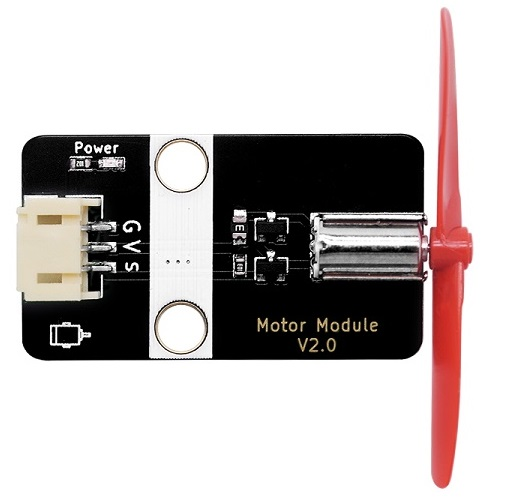
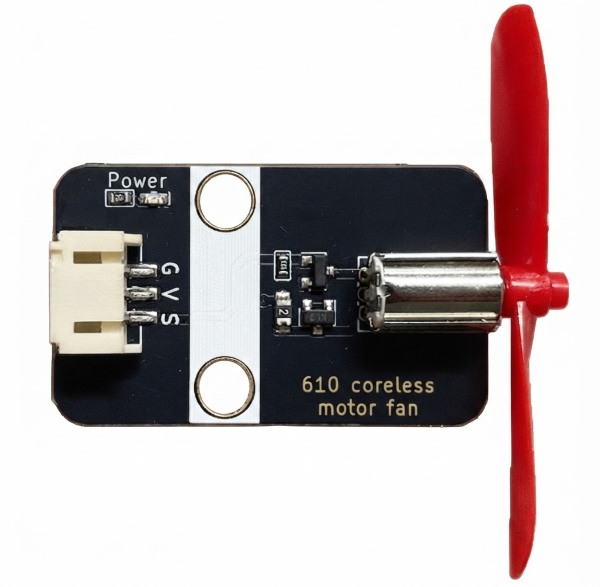
优化MPPT、mini-joystick、small_atomizer、R300C模块

diff --git a/docs/zh-cn/ph2.0_sensors/actuators/small_atomizer/small_atomizer_zh-cn.md b/docs/zh-cn/ph2.0_sensors/actuators/small_atomizer/small_atomizer_zh-cn.md
@@ -1,0 +1,46 @@
+# 5V小型雾化器模块
+
+![](./picture/small_atomizer.jpg)
+
+## 概述
+
+Atomizer模块是一款超声波雾化器模块，其利用高频振动将液体分解成细小颗粒。板载两颗高亮LED，红色LED用以指示LED供电是否正常，蓝色LED则指示雾化模块是否在工作。<br />
+Atomizer模块可通过单片机I/O口控制，低电平触发雾化器工作蓝色LED灯亮起，低电平关闭雾化器。也可通过板上自带的拨码开关直接控制，即便在没有单片机的情况下也能轻松使用雾化器模块，使用非常便利。除此之外，雾化器适应频率范围为100KHz~160KHz（中心频率108KHz或 150KHz）微孔雾化片，其内部集成微孔雾化片频率适应电路，可以检测微孔雾化片需要频率进行驱动，自适应频率快。<br />
+此小模块可以非常方便应用在创客小作品，PBL项目甚至医疗、美容、工业和家庭等多个领域等。
+
+### 原理图
+
+![small_atomizer_sch](./picture/small_atomizer_sch.jpg)
+
+<a href="zh-cn/ph2.0_sensors/actuators/small_atomizer/small_atomizer_sch.pdf" target="_blank">点击下载原理图</a>
+
+### 芯片规格书
+
+<a href="zh-cn/ph2.0_sensors/actuators/small_atomizer/HK9001_datasheet.pdf" target="_blank">点击下载HK9001规格书</a>
+
+## 模块参数
+
+- 工作电压：3 ~ 5V
+- 工作电流：120mA
+- 震动频率频率：108KHZ
+- 接 口：3pin-PH2.0接口的是供电及控制接口，2pin为雾化片接口及电池供电接口。
+- 工作稳定温度范围：0℃ ~ +70℃
+- 通信方式:  I/O口直接控制，高电平触发
+- 尺 寸：22.4*38.4mm，兼容乐高积木和M4螺丝固定孔
+
+## 引脚定义
+
+| 引脚名称 | 描述        |
+| -------- | :---------- |
+| G        | GND     |
+| V        | 3 ~ 5V |
+| S      | 雾化启动控制，**低电平有效** |
+| WH     | 雾化片接口 |
+| + | 电池供电正极（3~5V） |
+| - | 电池供电负极 |
+
+### 机械尺寸
+
+![small_atomizer_assembly](./picture/small_atomizer_assembly.jpg)
+
+<a href="zh-cn/ph2.0_sensors/actuators/small_atomizer/small_atomizer_3d.zip" download>下载小型雾化器模块平面和3D文件</a>

diff --git a/docs/zh-cn/power_module/MPPT/MPPT_zh-cn.md b/docs/zh-cn/power_module/MPPT/MPPT_zh-cn.md
@@ -1,0 +1,42 @@
+# MPPT太阳能充电模块
+
+![MPPT](./picture/MPPT.jpg)
+
+## 概述
+
+MPPT模块是一款可通过太阳能发电板及USB接口给锂电池充电的模块。当太阳光照射到电池板上时，光子与半导体材料相互作用，产生电子-空穴对，从而形成电流，电流通过板上集成的管理芯片给电池充电，也可以通过PH2.0接口外接出去给其他系统使用。板载两颗高亮LED，绿色LED用以指示正在充电，蓝色LED则指示电池电量已经充满。<br />
+MPPT模块无需外部控制，即插即用。使用非常便利。除此之外，MPPT模块集成电池管理芯片，防止电池过充或过放，能有效保护电池，延长电池使用寿命，拥有PH2.0防反插接口。<br />
+此设备可以应用于户外活动、旅行、小型电子设备供电、和家庭等多个领域等。
+
+### 原理图
+
+![MPPT_sch](./picture/MPPT_sch.jpg)
+
+### 芯片规格书
+
+<a href="zh-cn/ph2.0_sensors/smart_module/MPPT/CN3165_datesheet.pdf" target="_blank">点击下载太阳能充电芯片CN3165原理图</a>
+
+## 模块参数
+
+- 太阳能板充电输入电压：4.5-6V
+- 工作电流：180mA
+- 最大功率：1.5W
+- 接 口：PH2.0间距接口、USB接口，2pin-PH2.0为太阳能充电板接口及充电输出接口。
+- 工作稳定温度范围：-20℃ ~ +70℃
+- 尺 寸：22.4*38.4mm
+- 安装方式：M4螺钉螺母固定
+
+## 接口定义
+
+| 接口名称 | 描述        |
+| -------- | :---------- |
+| USB IN | USB充电输入接口 |
+| SOLAR IN | 太阳能板充电板输入接口 |
+| BAT IN | 3.7V锂电池接口 |
+| OUTPUT | 对外供电输出接口（范围3.7~4.2V）  |
+
+## 机械尺寸
+
+![MPPT_size_mark](./picture/MPPT_assembly.png)
+
+<a href="zh-cn/ph2.0_sensors/power_module/MPPT/MPPT_3d.zip" download>下载MPPT太阳能充电模块平面和3D文件</a>

diff --git a/docs/zh-cn/ph2.0_sensors/base_input_module/mini-joystick/mini-joystick_zh-cn.md b/docs/zh-cn/ph2.0_sensors/base_input_module/mini-joystick/mini-joystick_zh-cn.md
@@ -14,17 +14,42 @@ mini-joystick手柄包含一个操纵杆（X轴和Y轴）和五个按键（A、B
 
 ## 模块参数
 
-
 | 引脚名称 | 描述           |
 |:------- | :------------- |
 | G       | GND            |
-| V       | 3~5V         |
+| V       | 3~5V           |
 | SCL     | I2C通信时钟引脚 |
 | SDA     | I2C通信数据引脚 |
 
 - 供电电压：3~5V；
 - 通信方式：IIC，默认地址0x5A；
 - 连接方式：PH2.0-4PIN防反接线；
+
+### 寄存器地址介绍
+
+| 寄存器地址       | 功能描述                                      | 值范围 |
+| ---------------- | --------------------------------------------- | ------ |
+| 0x5A（十进制90） | 默认I2C从机地址，背面可以通过焊接电阻修改地址 |        |
+| 0x10             | 左摇杆X轴模拟值 JOYSTICK_LEFT_X               | 0~255  |
+| 0x11             | 左摇杆Y轴模拟值 JOYSTICK_LEFT_X               | 0~255  |
+| 0x20             | 摇杆中间确认按键BUTTON_OK                     | 0~8    |
+| 0x21             | C按键                                         | 0~8    |
+| 0x22             | A按键                                         | 0~8    |
+| 0x23             | B按键                                         | 0~8    |
+| 0x24             | D按键                                         | 0~8    |
+
+### 按键状态说明
+
+| 按键状态值 | 描述                              |
+| ---------- | --------------------------------- |
+| 0          | PRESS_DOWN按下                    |
+| 1          | PRESS_UP按键抬起                  |
+| 2          | PRESS_REPEAT重复按键              |
+| 3          | SINGLE_CLICK单击                  |
+| 4          | DOUBLE_CLICK双击（间隔500ms以内） |
+| 5          | LONG_PRESS_START长按开始          |
+| 6          | LONG_PRESS_HOLD长按按住           |
+| 8          | NONE_PRESS无操作                  |
 
 ## 机械尺寸图
 

diff --git a/docs/zh-cn/ph2.0_sensors/actuators/servo_adapter/servo_adapter_zh-cn.md b/docs/zh-cn/ph2.0_sensors/actuators/servo_adapter/servo_adapter_zh-cn.md
@@ -1,0 +1,18 @@
+# 舵机扩展
+
+![servo_adapte](./picture/servo_adapter.jpg)
+
+舵机扩展板，功能是将一个4P-PH2.0接口转接成2个2.54mm间距杜邦线舵机接口的，舵机板子上自带2个500mA的保险丝，可以防止舵机堵转，卡死。
+
+## 模块参数
+
+* 供电电压：和舵机工作电压匹配
+* 连接方式：4Pin-PH2.0防反接
+* 模块尺寸：38.4*22.4mm
+* 安装方式：M4螺钉兼容乐高插孔
+
+## 机械尺寸
+
+![servo_adapter_size_mark](./picture/servo_adapter_assembly.png)
+
+<a href="zh-cn/ph2.0_sensors/actuators/servo_adapter/servo_adapter_3d.zip" target="_blank">点击下载2D和3D文件</a>

diff --git a/docs/zh-cn/ph2.0_sensors/smart_module/speech_recognizer/speech_recognizer.md b/docs/zh-cn/ph2.0_sensors/smart_module/speech_recognizer/speech_recognizer.md
@@ -1,8 +1,6 @@
 # 语音识别模块2.1
 
-## 实物图
-
-![实物图](picture/ld3320.jpg)
+![ld3320](picture/ld3320.jpg)
 
 ## 概述
 
@@ -26,7 +24,7 @@
 
 - 工作电压：5V
 - 连接方式：4 PIN 防反接杜邦线
-- 模块尺寸：4 * 2.1cm
+- 模块尺寸：22.4*38.4mm
 - 安装方式：M4螺钉螺母固定
 - I2C地址：0x30
 
@@ -41,7 +39,9 @@
 
 ## 模块尺寸
 
-TODO
+![ld3320_assembly](./picture/ld3320_assembly.jpg)
+
+<a href="zh-cn/ph2.0_sensors/smart_module/asr_speech_recognition/speech_recognition_3d.zip" download>下载语音识别模块平面和3D文件</a>
 
 ## 软件特性
 

diff --git a/docs/_sidebar.md b/docs/_sidebar.md
@@ -82,18 +82,18 @@
     - [无源蜂鸣器模块](/zh-cn/ph2.0_sensors/actuators/passive_buzzer/passive_buzzer_zh-cn.md)
     - [SA8302步进电机模块](/zh-cn/ph2.0_sensors/actuators/SA8302/SA8302.md)
     - [空心杯610电机风扇](/zh-cn/ph2.0_sensors/actuators/610_coreless_motor_fan/610_coreless_motor_fan_zh-cn.md)
-    - [R300C电机风扇](/zh-cn/ph2.0_sensors/actuators/r300c/r300c_zh-cn.md)
+    - [R300C电机风扇](/zh-cn/ph2.0_sensors/actuators/R300C/R300C_zh-cn.md)
     - [继电器模块](/zh-cn/ph2.0_sensors/actuators/relay_module/relay_model_zh-cn.md)
     - [红外发射模块](/zh-cn/ph2.0_sensors/actuators/infrared_emitter/infrared_emitter_zh-cn.md)
     - [激光发射模块](/zh-cn/ph2.0_sensors/actuators/laser_emitter/laser_emitter_zh-cn.md)
     - [振动马达](zh-cn/ph2.0_sensors/actuators/vibrationMotorModule/vibrationMotorModule.md)
     - [8002A音频放大器](zh-cn/ph2.0_sensors/actuators/8002a_amp_speaker/8002a_amp_speaker.md)
-    - [舵机扩展](/zh-cn/ph2.0_sensors/actuators/servoModel.md)
+    - [舵机扩展](/zh-cn/ph2.0_sensors/actuators/servo_adapter_zh-cn.md)
     - [MD01单路电机驱动](zh-cn/ph2.0_sensors/actuators/md01/md01_zh-cn.md)
     - [MD02双路电机驱动](zh-cn/ph2.0_sensors/actuators/md02/md02_zh-cn.md)
     - [DM11两路电机驱动模块](/zh-cn/ph2.0_sensors/actuators/dm11/dm11.md)
     - [MD40四路编码驱动模块](zh-cn/ph2.0_sensors/actuators/md40/md40.md)
-    - [小型雾化器](/zh-cn/ph2.0_sensors/actuators/small_atomizer/small_atomizer.md)
+    - [小型雾化器](/zh-cn/ph2.0_sensors/actuators/small_atomizer/small_atomizer_zh-cn.md)
     - [MOS管驱动模块](/zh-cn/ph2.0_sensors/actuators/mos_driver_module/mos_driver_module_zh-cn.md)
   
   - 显示器
@@ -131,7 +131,6 @@
     - [离线特定语音识别ASR-V2](zh-cn/ph2.0_sensors/smart_module/asr_speech_recognition/asr_speech_recognition.md)
     - [TTS20 语音合成模块](zh-cn/ph2.0_sensors/smart_module/tts20_module/tts20_module.md)
     - [TTS语音合成V2.1](zh-cn/ph2.0_sensors/smart_module/tts_module/text_to_speech_synthesizer.md)
-    - [TTS语音合成V3.0](/zh-cn/gallery.md)
     - [MIDI数字音乐模块](zh-cn/ph2.0_sensors/smart_module/midi/midi.md)
     - [I2C-IO扩展模块](zh-cn/ph2.0_sensors/smart_module/gpio_expansion_board/gpio_expansion_board.md)
     - [I2C级联扩展器](/zh-cn/ph2.0_sensors/smart_module/i2c_cascade_extender/i2c_cascade_extender.md)
@@ -147,7 +146,7 @@
   
   - [5V5A电源模块(PM01)](/zh-cn/power_module/PM01/PM01.md)
   - [升降压5V电源(PM02)](/zh-cn/power_module/PM02/PM02.md)
-  - [MPPT太阳能充电板](/zh-cn/power_module/MPPT/MPPT.md)
+  - [MPPT太阳能充电板](/zh-cn/power_module/MPPT/MPPT_zh-cn.md)
   - [3.7V升压充电模块(PM1S-16340)](/zh-cn/power_module/PM1S-16340/PM1S-16340.md)
   - [3.7V锂电池包模块(PM11)](/zh-cn/power_module/PM11/PM11.md)
   - [7.4V充电电池模块(PM2S-16340)](/zh-cn/power_module/PM2S-16340/PM2S-16340.md)

diff --git a/docs/zh-cn/software/arduino_ide/arduino_ide.zh-CN.md b/docs/zh-cn/software/arduino_ide/arduino_ide.zh-CN.md
@@ -4,11 +4,13 @@
 
 ### IDE 介绍
 
-Arduino IDE（Integrated Development Environment，集成开发环境）是专为Arduin 硬件开发设计的软件工具，它简化了编程过程，使得初学者和专业人士都能轻松开发微控制器应用。Arduino IDE 提供了一个易于使用的界面，允许用户使用基于 C/C++ 的简化语言编写、编辑、编译和上传代码到 Arduino微控制器板。建议在Windows 10且内存8G及以上配置的电脑上使用。
+Arduino IDE（Integrated Development Environment，集成开发环境）是专为Arduin 硬件开发设计的软件工具，它简化了编程过程，使得初学者和专业人士都能轻松开发微控制器应用。Arduino IDE 提供了一个易于使用的界面，允许用户使用基于 C/C++ 的简化语言编写、编辑、编译和上传代码到 Arduino微控制器板。建议在**Windows 10且内存8G及以上配置的电脑上**使用。
 
 ### Arduino IDE 2.0 和 1.0 的主要区别
 
-相比于 2021 年之前发布的 Arduino IDE 1.x 版本，官方于 2022 年正式推出的 Arduino IDE 2.0 版本在重构后引入了多项核心改进，提升了开发效率与体验。
+相比于2021年之前发布的 Arduino IDE 1.x 版本，官方于 2022 年正式推出的 Arduino IDE 2.0 版本在重构后引入了多项核心改进，提升了开发效率与体验。
+
+-   **系统支持**：ArduinoIDE2.0只支持win10及以上系统，win7或者xp系统请下载1.x版本。
 
 - **集成串口监视器与绘图仪**：允许同时打开 Serial Monitor（串口监视器）与全新的 Serial Plotter（串口绘图仪），可实时查看和绘制串口数据。
 

diff --git a/docs/zh-cn/ph2.0_sensors/actuators/610_coreless_motor_fan/610_coreless_motor_fan_zh-cn.md b/docs/zh-cn/ph2.0_sensors/actuators/610_coreless_motor_fan/610_coreless_motor_fan_zh-cn.md
@@ -1,12 +1,10 @@
 # 空心杯610电机风扇规格书
 
-
-
 ![610_dc_motor](picture/610_coreless_motor_fan.jpg)
 
 ## 概述
 
-        本模块采用高转速空心杯610电机，由MOS管直接驱动。通过一个PWM控制信号调节电机的转速，但是不能控制电机的方向。高速空心杯电机带动桨叶可以产生风力，可以吹灭20cm距离远的蜡烛，非常方便在DIY，科学实验，小作品上使用。由于桨叶是塑料片，旋转时请勿用手触碰。
+本模块采用高转速空心杯610电机，由MOS管直接驱动。通过一个PWM控制信号调节电机的转速，但是不能控制电机的方向。高速空心杯电机带动桨叶可以产生风力，可以吹灭20cm距离远的蜡烛，非常方便在DIY，科学实验，小作品上使用。由于桨叶是塑料片，旋转时请勿用手触碰。
 
 ## 原理图
 
@@ -57,3 +55,4 @@ void loop() {
 <a href="https://makecode.microbit.org/_bR98taPuz0rM" target="_blank">动手试一试</a>
 
  通过小电机风扇模块接Microbit的P1引脚，程序上传之后，可以看到小风扇先全速转两秒，然后中速转两秒，最后停下两秒之后在全速转两秒如此循环。
+ 

diff --git a/docs/zh-cn/ph2.0_sensors/actuators/relay_module/relay_model_zh-cn.md b/docs/zh-cn/ph2.0_sensors/actuators/relay_module/relay_model_zh-cn.md
@@ -6,7 +6,9 @@
 
 继电器（Relay）是一种电控制开关，其工作原理基于电磁感应。继电器通常包括一个电磁线圈和一组触点。它具有控制系统（又称输入回路）和被控制系统（又称输出回路）之间的互动关系。通常应用于自动化的控制电路中，用小电流去控制大电流运作的一种“自动开关” ，在电路中起着自动调节、安全保护、转换电路等作用。特别适合于单片机控制强电装置。
 
-当PH2.0接口引脚S输入低电平或者悬空时，继电器断开，即右侧3号引脚（Normally Closed，NC），2号引脚（COM）连通，红色信号灯Signal熄灭；当当PH2.0接口引脚S输入低电平时，继电器断开，右侧1引脚（Normally Open，NO），2号引脚（COM）连通，红色信号灯Signal亮起。
+当PH2.0接口引脚S输入低电平或者悬空时，继电器断开，即右侧3号引脚（Normally Closed，NC）和2号引脚（COM）连通，红色信号灯Signal熄灭；
+
+当PH2.0接口引脚S输入高电平时，继电器吸合，右侧1引脚（Normally Open，NO）和2号引脚（COM）连通，红色信号灯Signal亮起，此时会听到嘀嗒的声音。
 
 ## 工作原理
 

diff --git a/docs/zh-cn/ph2.0_sensors/smart_module/asr_speech_recognition/asr_speech_recognition.md b/docs/zh-cn/ph2.0_sensors/smart_module/asr_speech_recognition/asr_speech_recognition.md
@@ -2,7 +2,7 @@
 
 ## 模块实物图
 
-![实物图](picture/fd3bbc53febcc0be1a72f704a733148.jpg)
+![实物图](picture/asr_v2.jpg)
 
 ## 概述
 